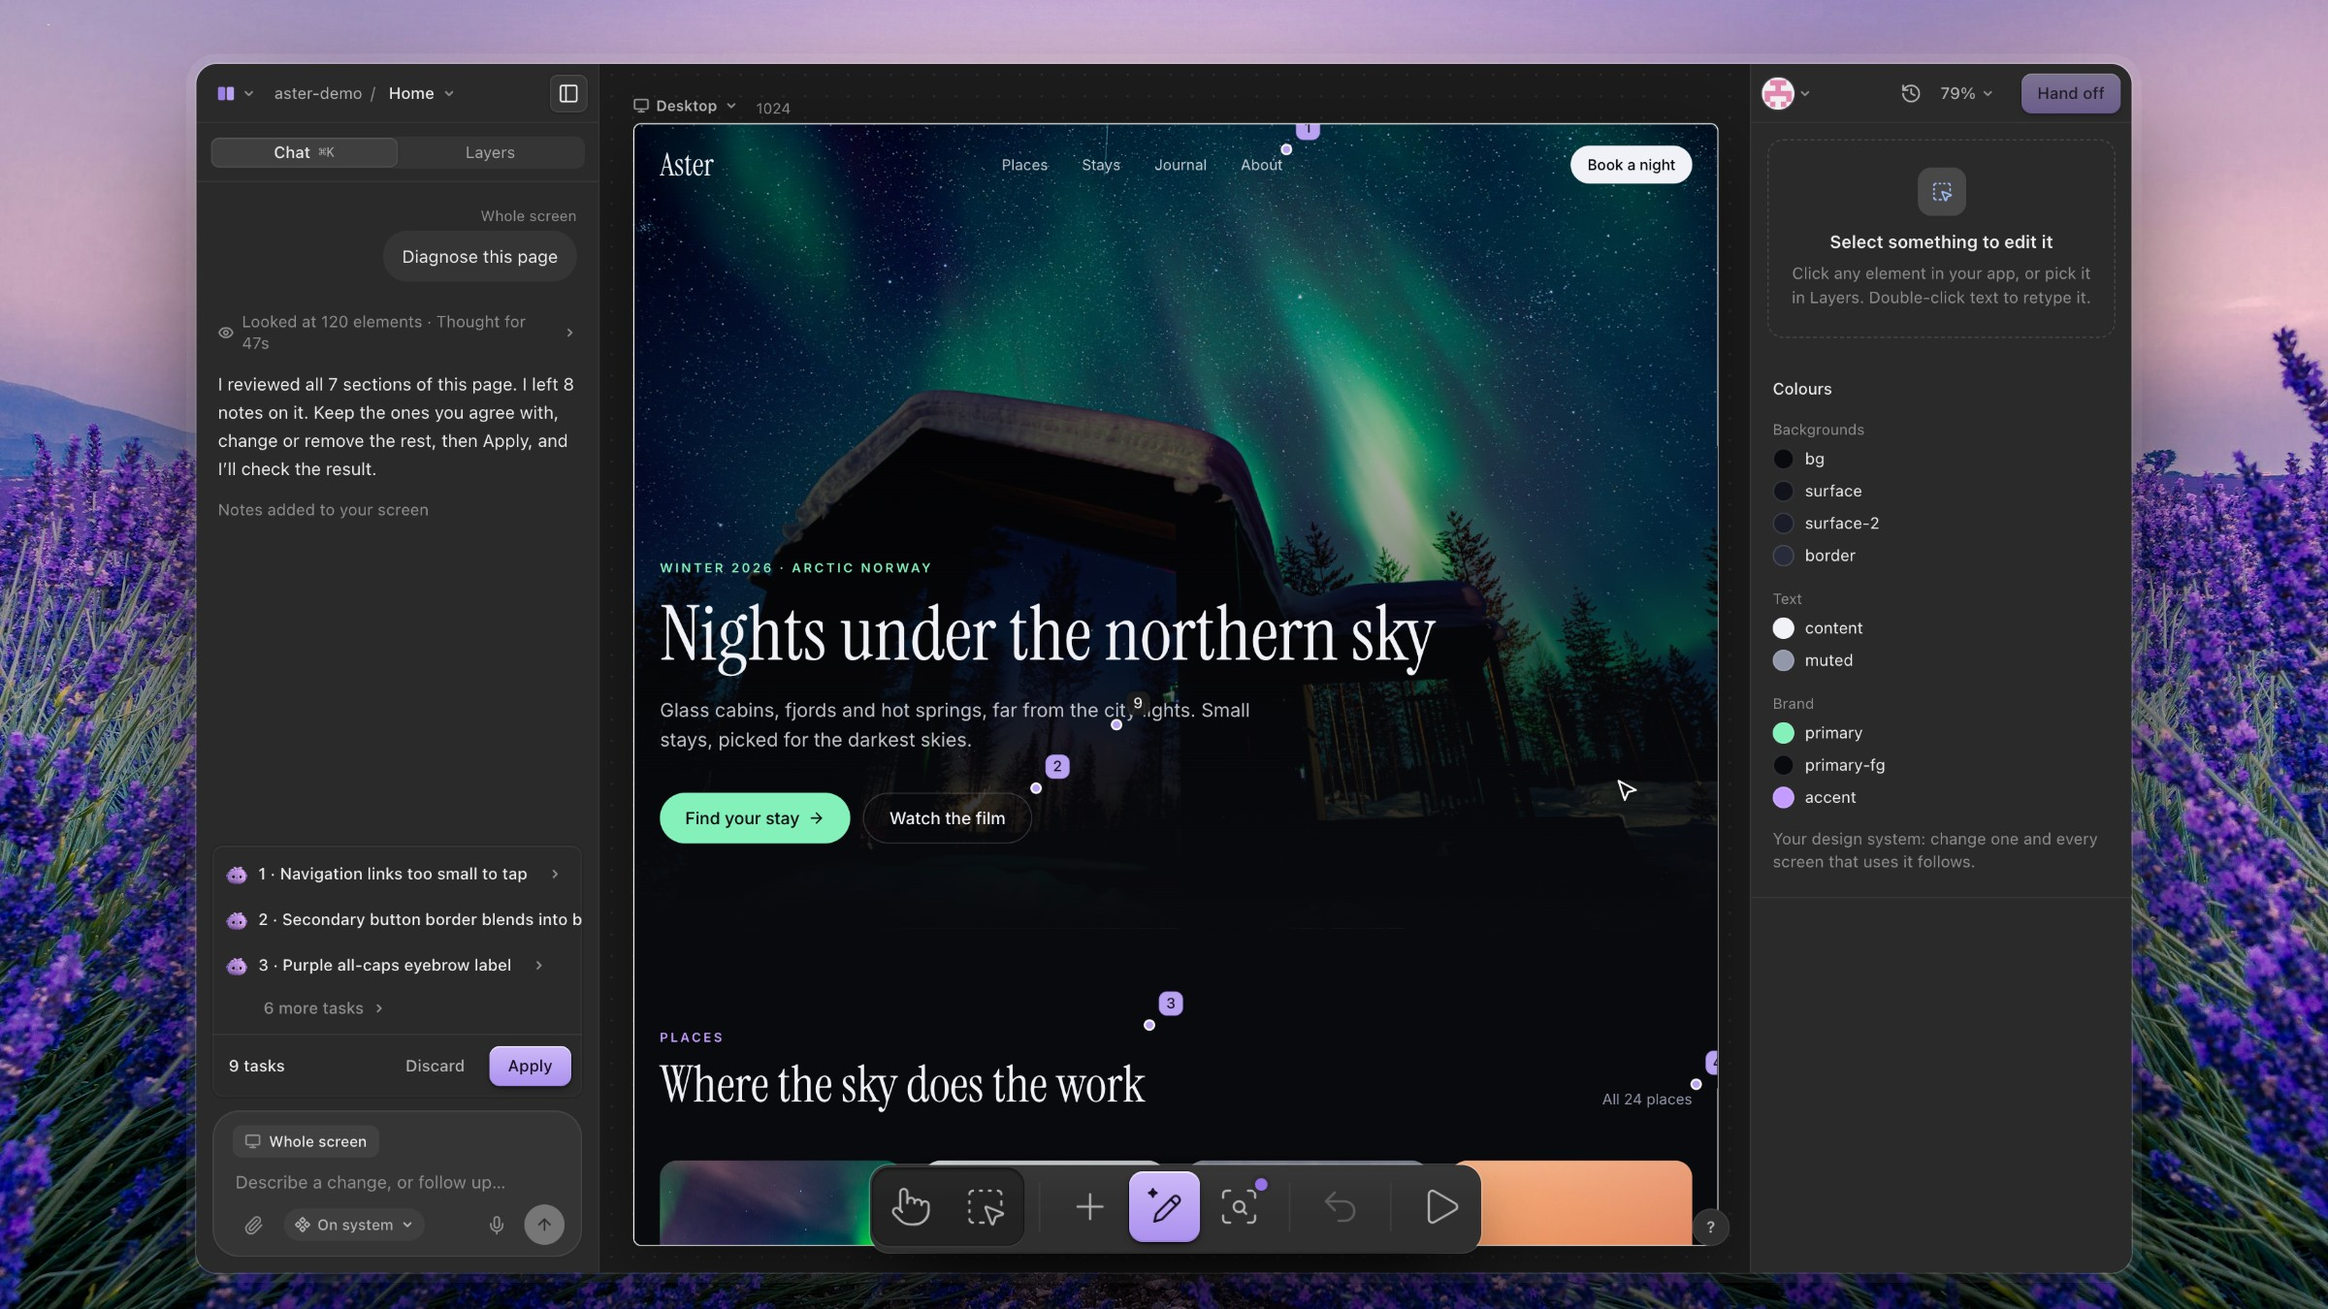
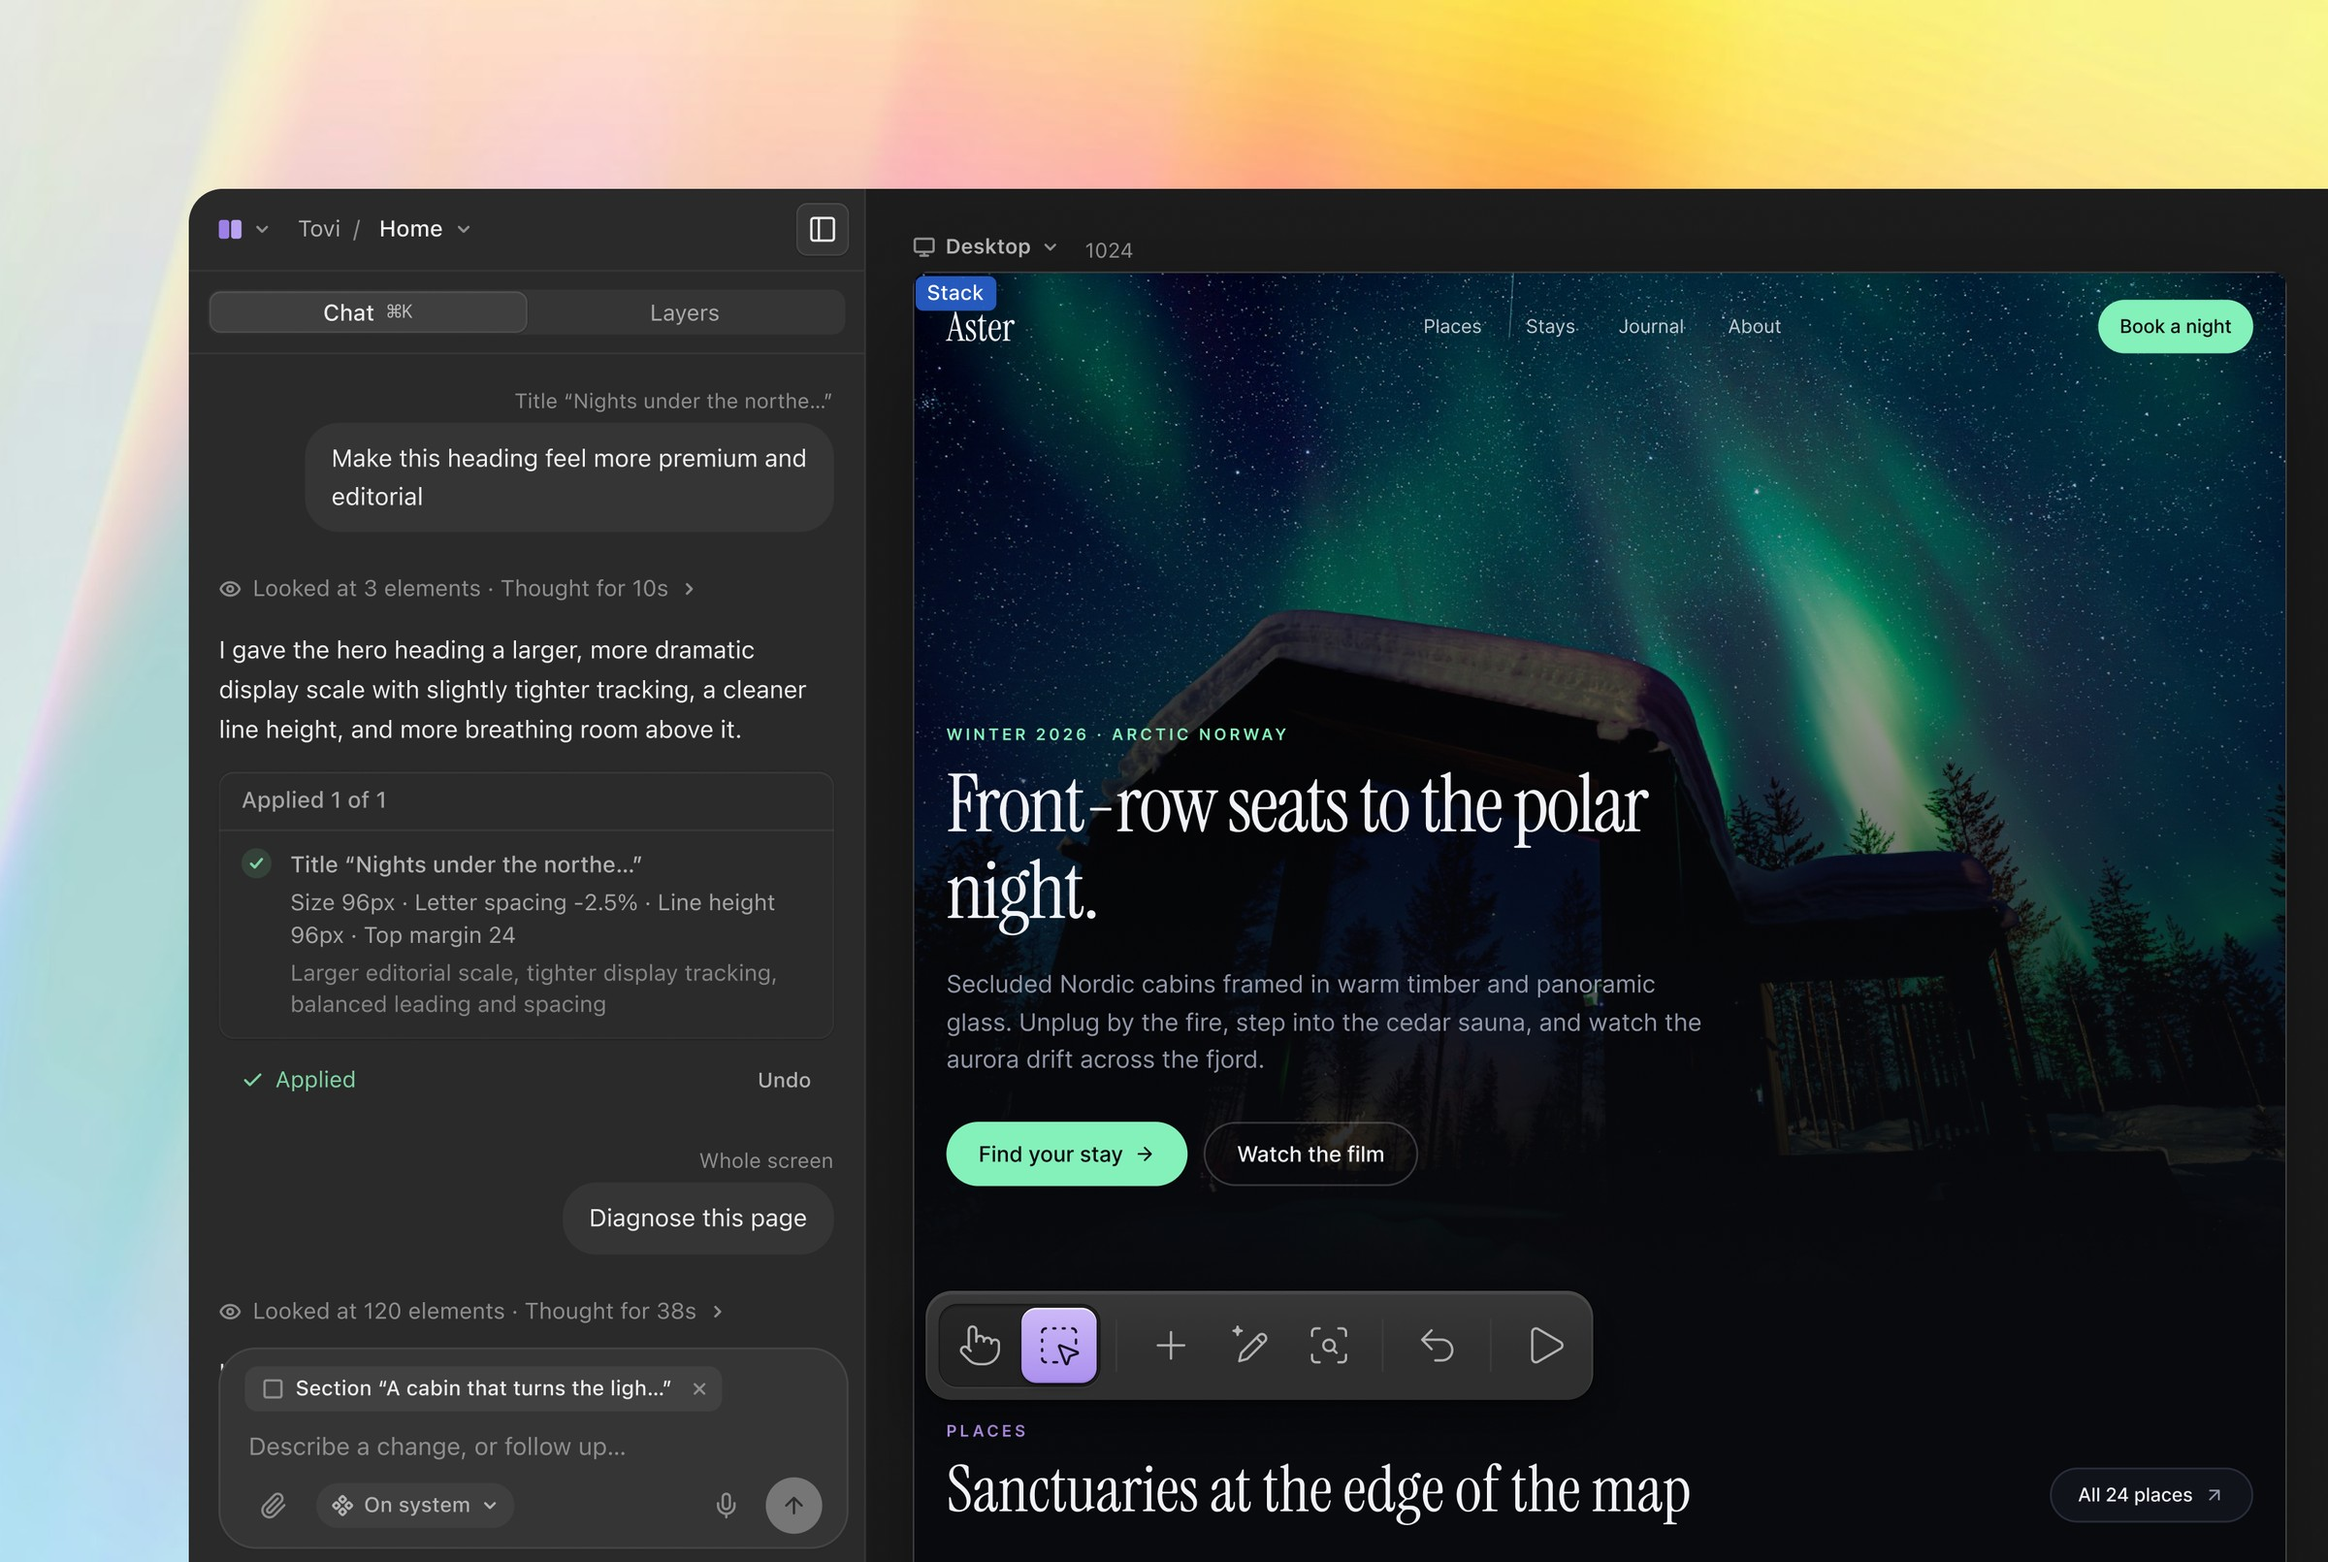
Tovi thumbnail: new product shot on gradient (Thumbnail new.png, used as is)

diff --git a/index.html b/index.html
@@ -73,7 +73,7 @@
       <div class="hero-stack" aria-label="Selected work">
         <a class="hs-card hs-l" href="work/cutline/" aria-label="Cutline case study"><img src="assets/images/cutline/cutline-thumb.jpg?v=7" alt=""></a>
         <a class="hs-card hs-r" href="work/chatblock-agenticai/" aria-label="Chatblocks case study"><img src="assets/images/oWLiHpSBXKq6SvZy4Uui7AdJMLM.png" alt=""></a>
-        <a class="hs-card hs-c" href="work/tovi/" aria-label="Tovi case study"><img src="assets/images/tovi/tovi-thumb.jpg?v=11" alt=""></a>
+        <a class="hs-card hs-c" href="work/tovi/" aria-label="Tovi case study"><img src="assets/images/tovi/tovi-thumb.jpg?v=12" alt=""></a>
       </div>
     </div>
   </section>
@@ -89,7 +89,7 @@
     </div>
     <div class="projects">
       <a class="project reveal scale" href="work/tovi/">
-        <div class="project-img tovi"><img src="assets/images/tovi/tovi-thumb.jpg?v=11" alt="" loading="lazy"></div>
+        <div class="project-img tovi"><img src="assets/images/tovi/tovi-thumb.jpg?v=12" alt="" loading="lazy"></div>
         <div class="project-body">
           <div class="tags"><span class="tag">AI Product</span><span class="tag">Design Engineering</span></div>
           <div class="project-text"><h3>Tovi</h3><p>Designing and building an AI design tool that audits and fixes a team’s real product, then opens a pull request</p></div>
